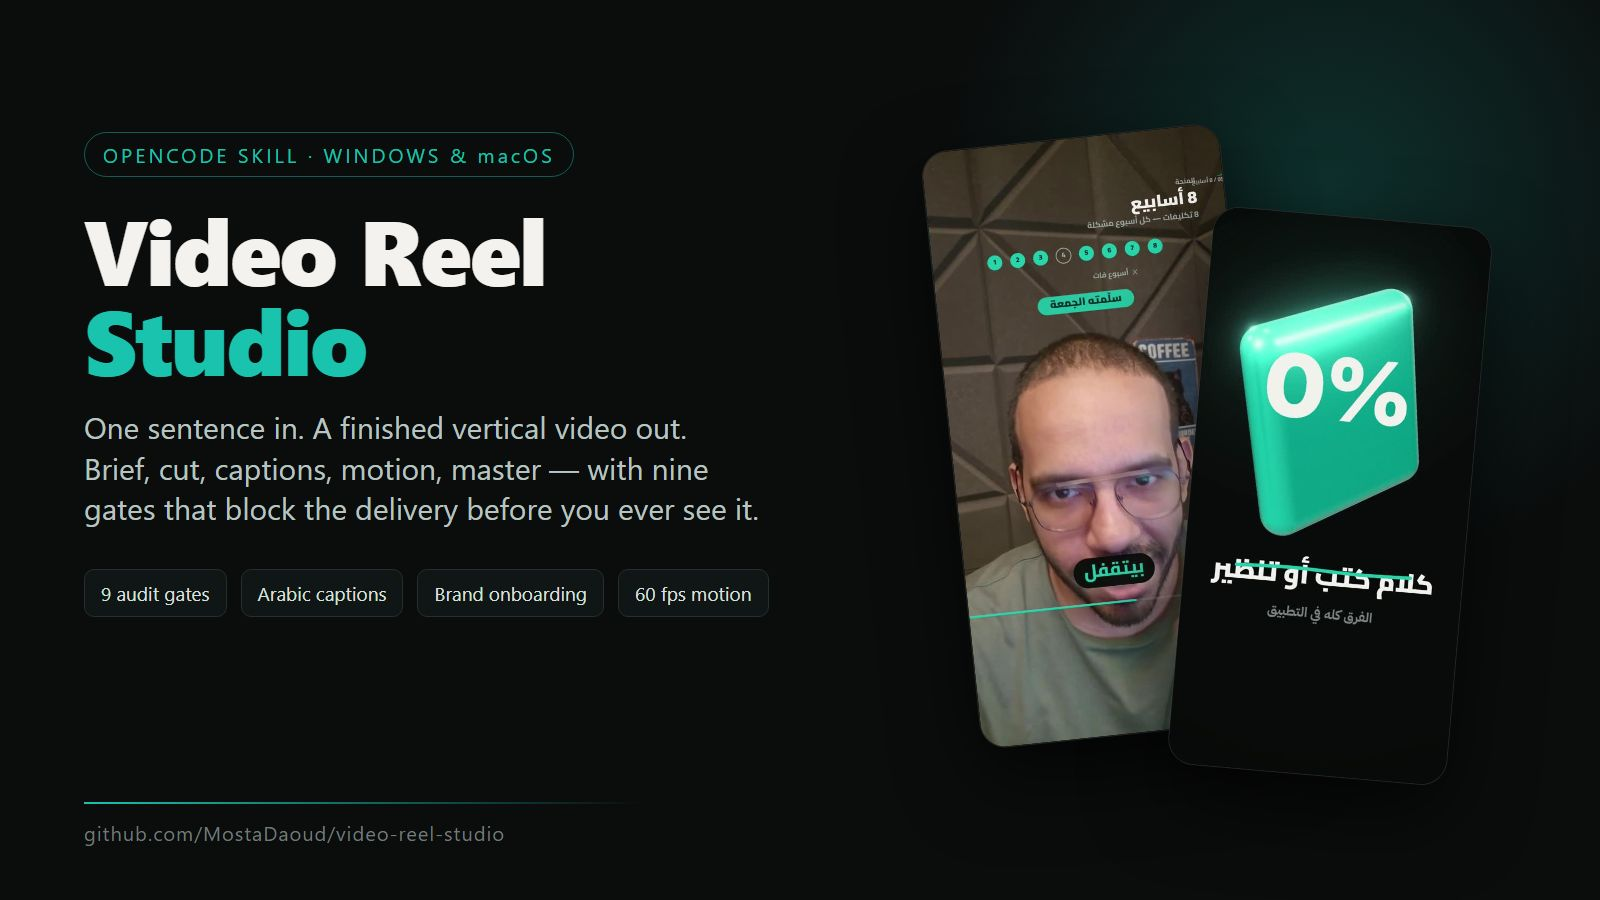
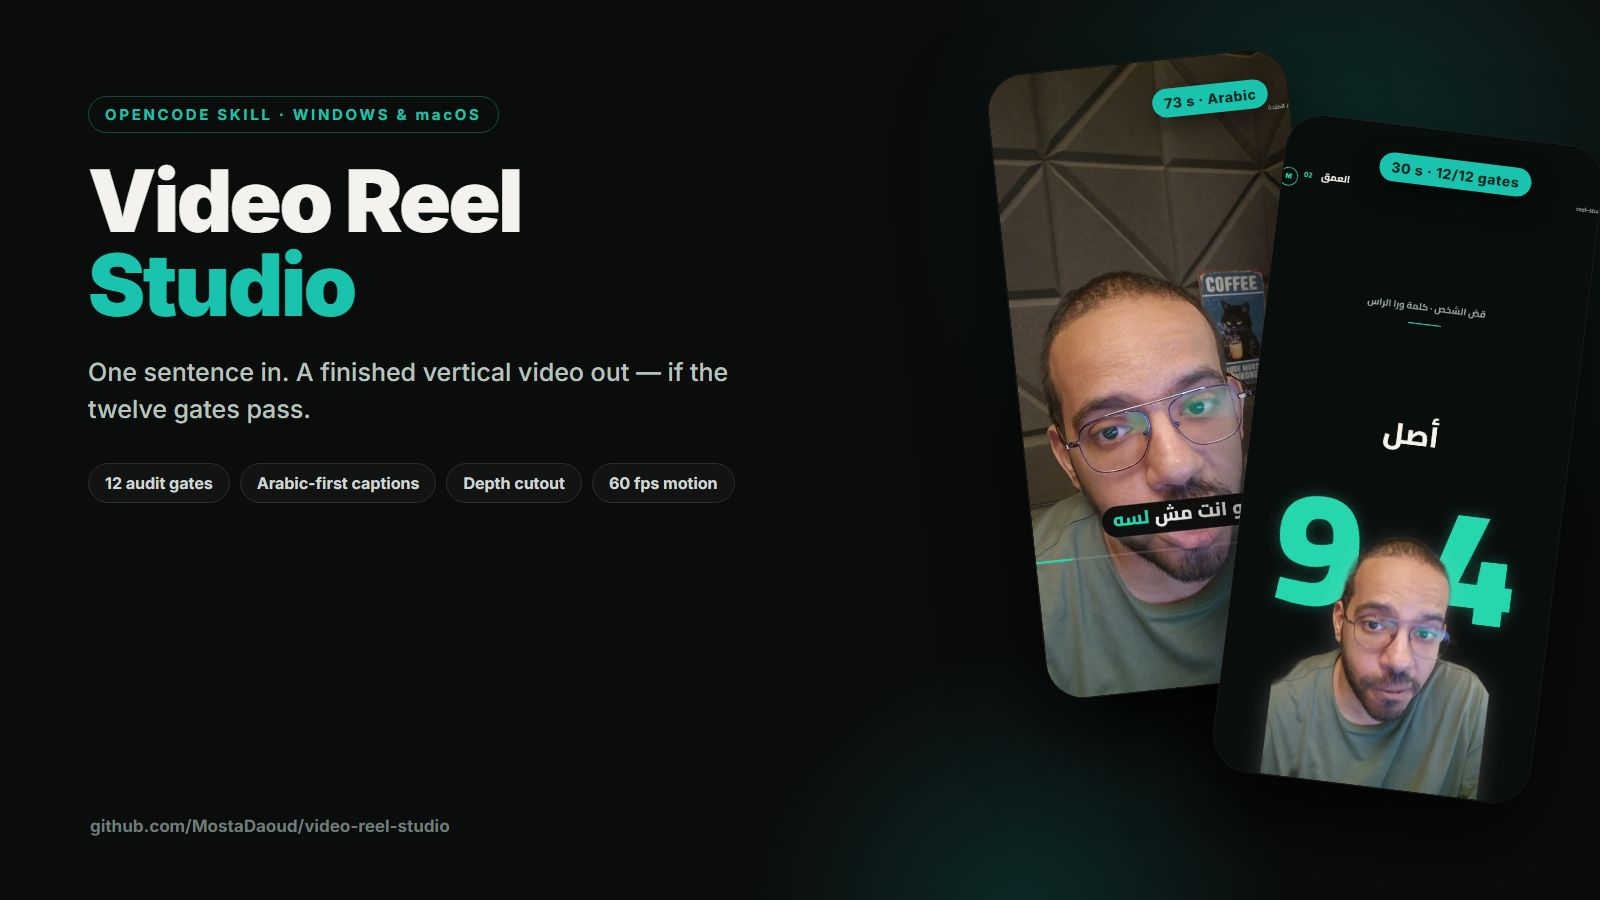
feat(site): lead with the 30 s film, fix the stale nine-gate hero
- samples grid now opens with the 30 s capability film and its depth poster
- hero rebuilt at 1600x900 (also the OG image): twelve gates, depth cutout,
  current samples - it still said 'nine gates' while the page said twelve
- hero pill list + poster assets

diff --git a/index.html b/index.html
@@ -69,6 +69,7 @@
     <div class="row">
       <div class="pill">12 audit gates</div>
       <div class="pill">Arabic-first captions</div>
+      <div class="pill">Depth cutout</div>
       <div class="pill">Brand onboarding</div>
       <div class="pill">Windows · macOS · Linux</div>
       <div class="pill">MIT</div>
@@ -83,6 +84,10 @@
     <h2>What comes out</h2>
     <p class="sub">Real output from this pipeline, not mockups. Every file below passed its gates.</p>
     <div class="grid g3">
+      <div class="card">
+        <video src="assets/video/showcase-30.mp4" poster="assets/img/showcase-30-depth.jpg" controls playsinline preload="none"></video>
+        <div class="meta"><b>30 s capability film</b><span>hook · depth cutout · captions · motion bank · 3D · web demo · data · 12 gates</span></div>
+      </div>
       <div class="card">
         <video src="assets/video/reel.mp4" poster="assets/img/reel-sheet.jpg" controls playsinline preload="none"></video>
         <div class="meta"><b>73 s Arabic reel</b><span>captions · motion · 3D beat · cover · 28 MB</span></div>
